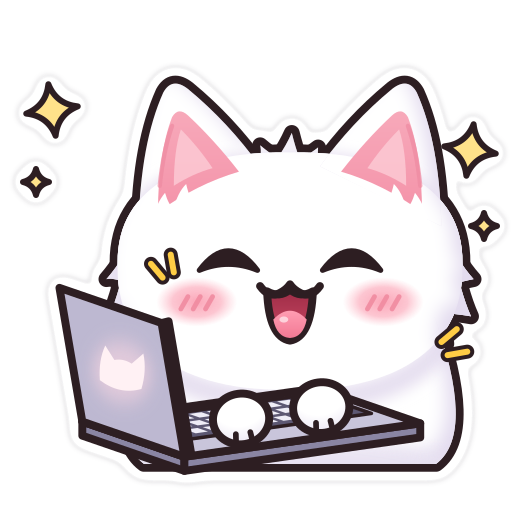
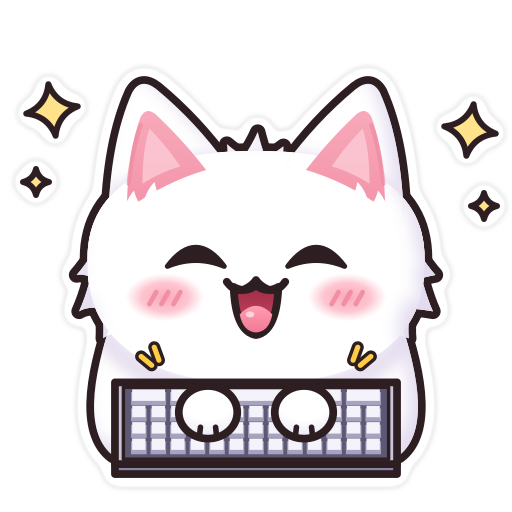
fix(stickers): give the typing Catapuss a desk keyboard
Up close the laptop didn't make sense: with its screen turned toward
the cat, the lid hid most of the keys and the paws ended up stacked
along a steep keyboard. The cat now sits behind a desk keyboard with
both paws side by side on the keys, as if the viewer were the screen.

The keyboard is drawn from a small 3D model so its key rows, raised
keycaps and space bar stay in proportion. The unused laptop drawing is
removed, and the sticker's "laptop" search tag becomes "keyboard".

diff --git a/src/features/stickers/catalog.ts b/src/features/stickers/catalog.ts
@@ -11,7 +11,7 @@ export interface VipReaction {
  */
 export const VIP_REACTIONS: readonly VipReaction[] = [
     {id: 'catapuss-cheer', name: 'Cheering Catapuss', tags: ['yay', 'hooray', 'celebrate', 'happy', 'excited']},
-    {id: 'catapuss-typing', name: 'Typing Catapuss', tags: ['laptop', 'typing', 'working', 'busy', 'computer']},
+    {id: 'catapuss-typing', name: 'Typing Catapuss', tags: ['keyboard', 'typing', 'working', 'busy', 'computer']},
     {id: 'catapuss-love', name: 'Heart Hug Catapuss', tags: ['love', 'heart', 'hug', 'cute', 'thanks']},
     {id: 'catapuss-heart-eyes', name: 'Heart Eyes Catapuss', tags: ['love', 'crush', 'adore', 'heart eyes']},
     {id: 'catapuss-laugh', name: 'Laughing Catapuss', tags: ['lol', 'lmao', 'funny', 'joy', 'haha']},
